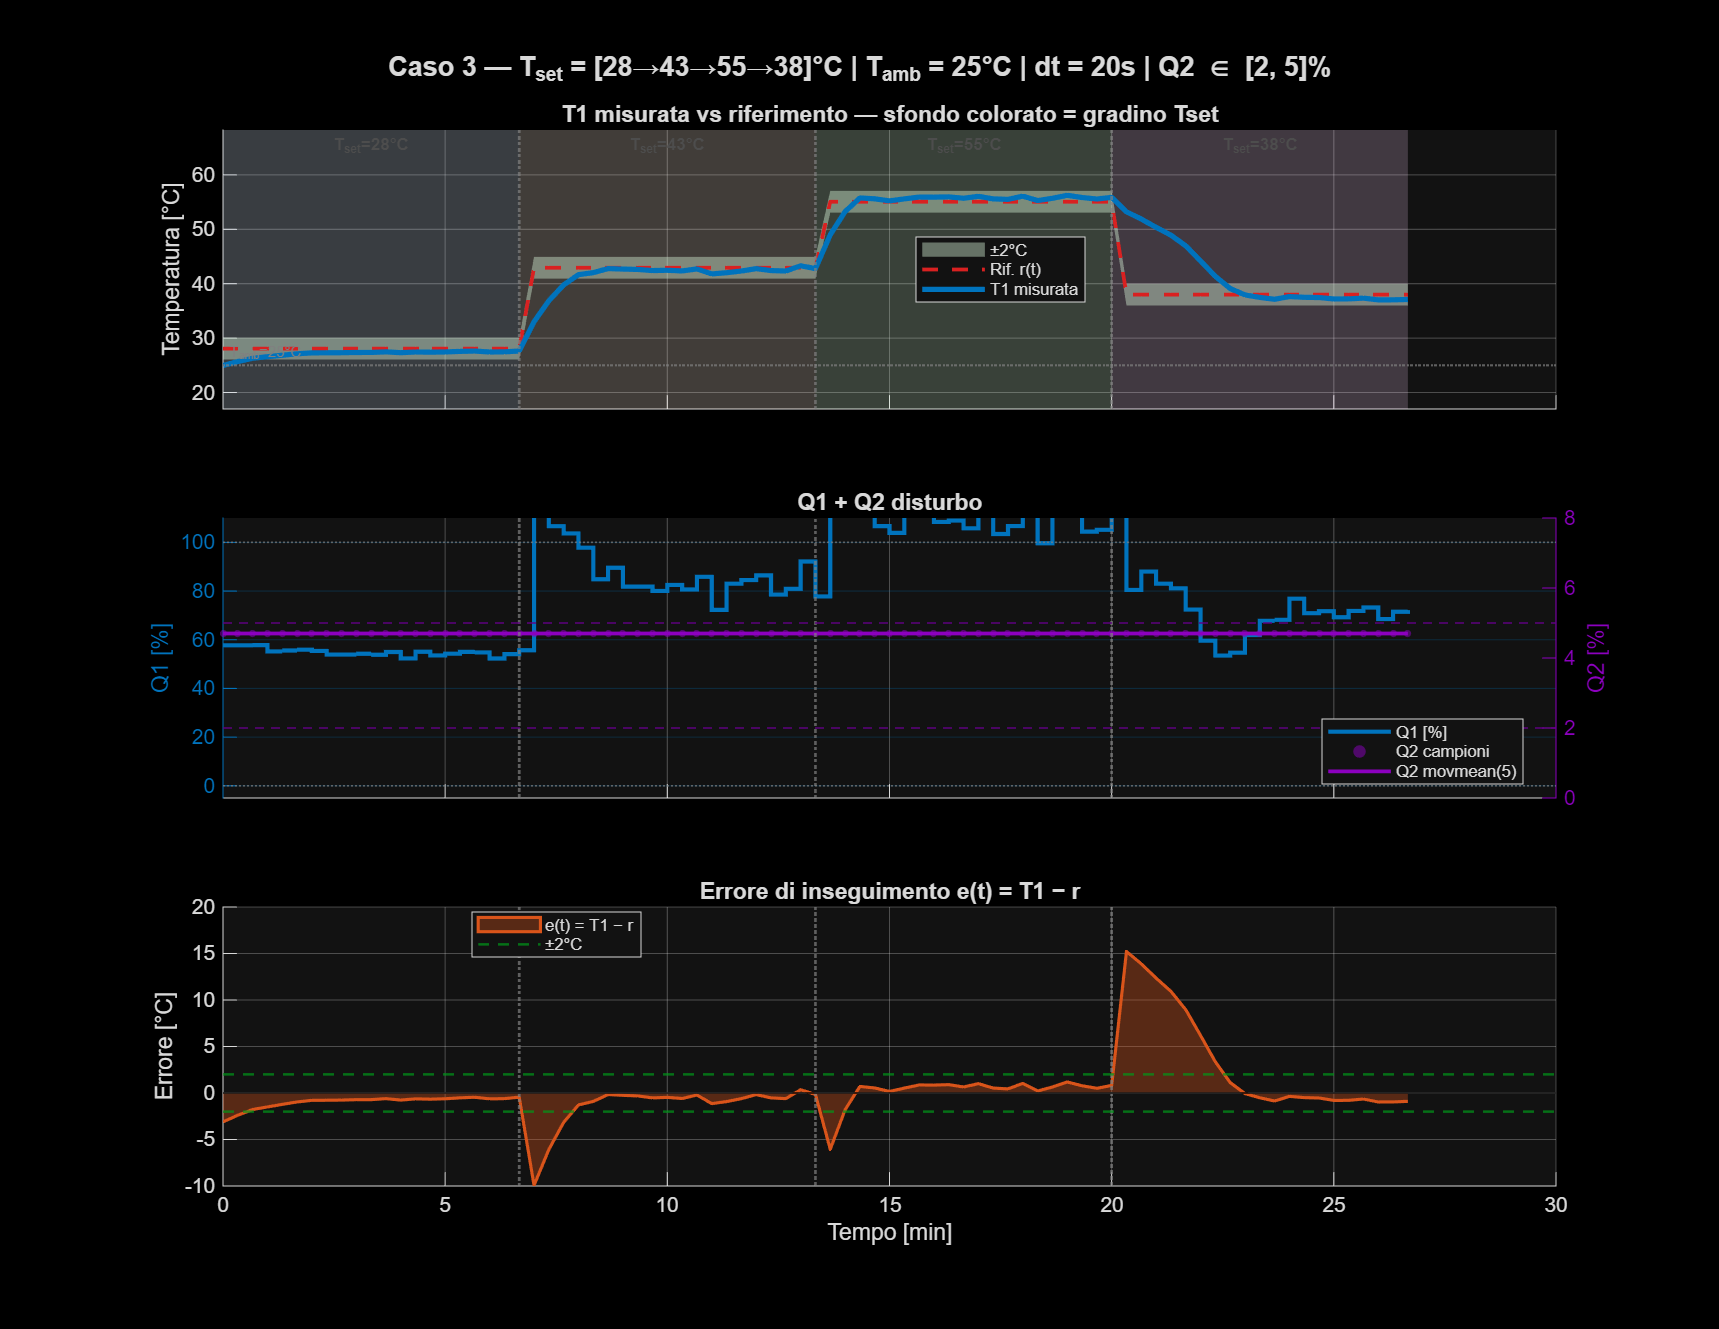
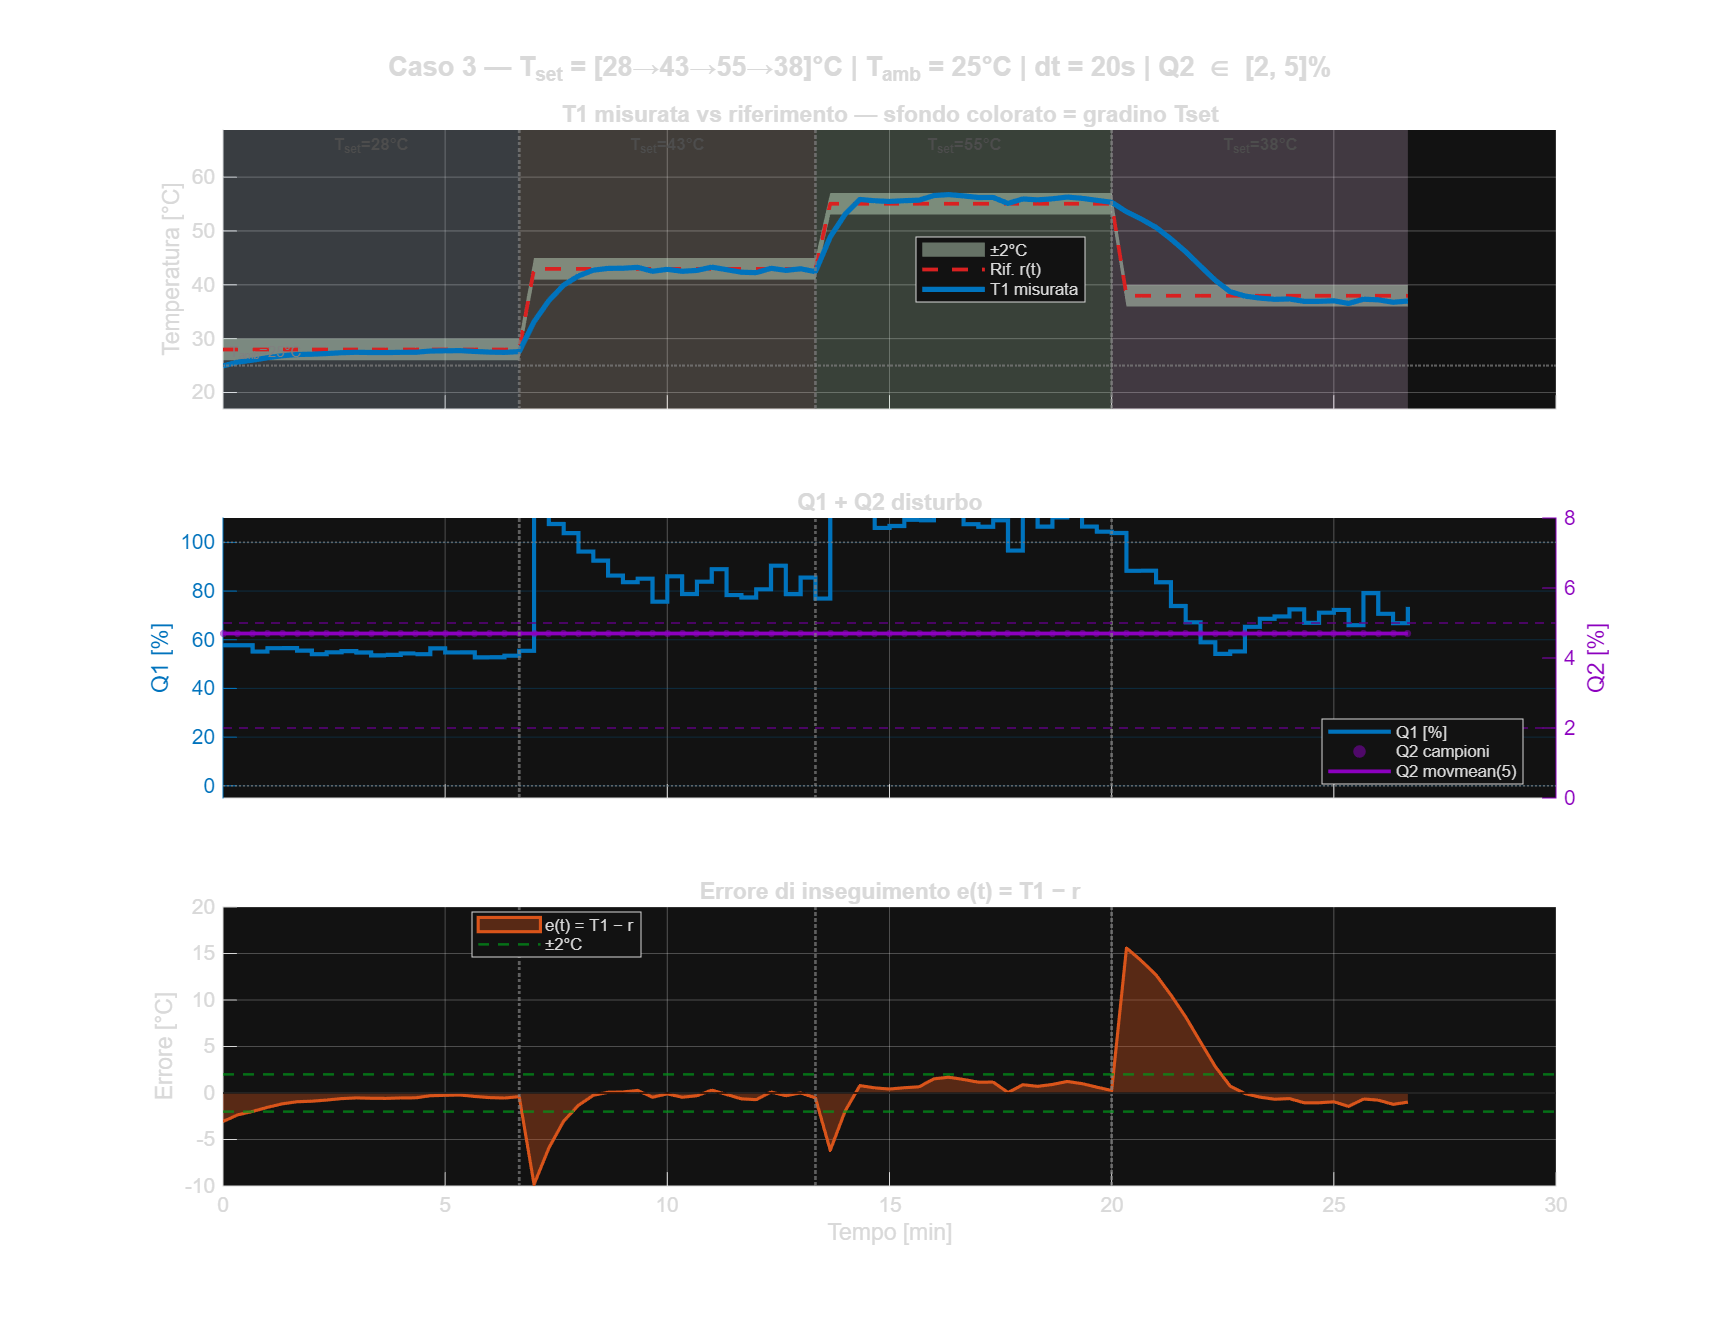
feat: add visualization scripts for Case 1, 2, and 3 with corresponding result figures

diff --git a/pilco_case1/draw_case1.m b/pilco_case1/draw_case1.m
@@ -38,7 +38,8 @@ Q1_perc = u_traj(:);          % [%] — già in [0,100] dalla chiamata esterna
 % Figura
 % =========================================================================
 % R8: NumberTitle off, Name descrittivo
-fig = figure('NumberTitle', 'off', 'Name', 'Caso 1 — Tset fisso, Tamb fissa');
+fig = figure('NumberTitle', 'off', 'Name', 'Caso 1 — Tset fisso, Tamb fissa', ...
+             'Color', 'w');
 clf(fig);
 % R10: Position [80, 50, 1100, 850]
 set(fig, 'Position', [80, 50, 1100, 850]);

diff --git a/pilco_case2/draw_case2.m b/pilco_case2/draw_case2.m
@@ -58,7 +58,8 @@ T1_vec   = T1_traj(:);
 % Figura
 % =========================================================================
 % R8: NumberTitle off, Name descrittivo
-fig = figure('NumberTitle', 'off', 'Name', 'Caso 2 — Tset fisso, Tamb variabile');
+fig = figure('NumberTitle', 'off', 'Name', 'Caso 2 — Tset fisso, Tamb variabile', ...
+             'Color', 'w');
 clf(fig);
 % R10: Position [80, 50, 1100, 850]
 set(fig, 'Position', [80, 50, 1100, 850]);

diff --git a/pilco_case3/draw_case3_step.m b/pilco_case3/draw_case3_step.m
@@ -57,7 +57,8 @@ step_times_min = step_times(:) / 60;    % [min]
 % Figura
 % =========================================================================
 % R8: NumberTitle off, Name descrittivo
-fig = figure('NumberTitle', 'off', 'Name', 'Caso 3 — Tset variabile (gradini)');
+fig = figure('NumberTitle', 'off', 'Name', 'Caso 3 — Tset variabile (gradini)', ...
+             'Color', 'w');
 clf(fig);
 % R10/BUG5: Position [80, 50, 1100, 850]
 set(fig, 'Position', [80, 50, 1100, 850]);